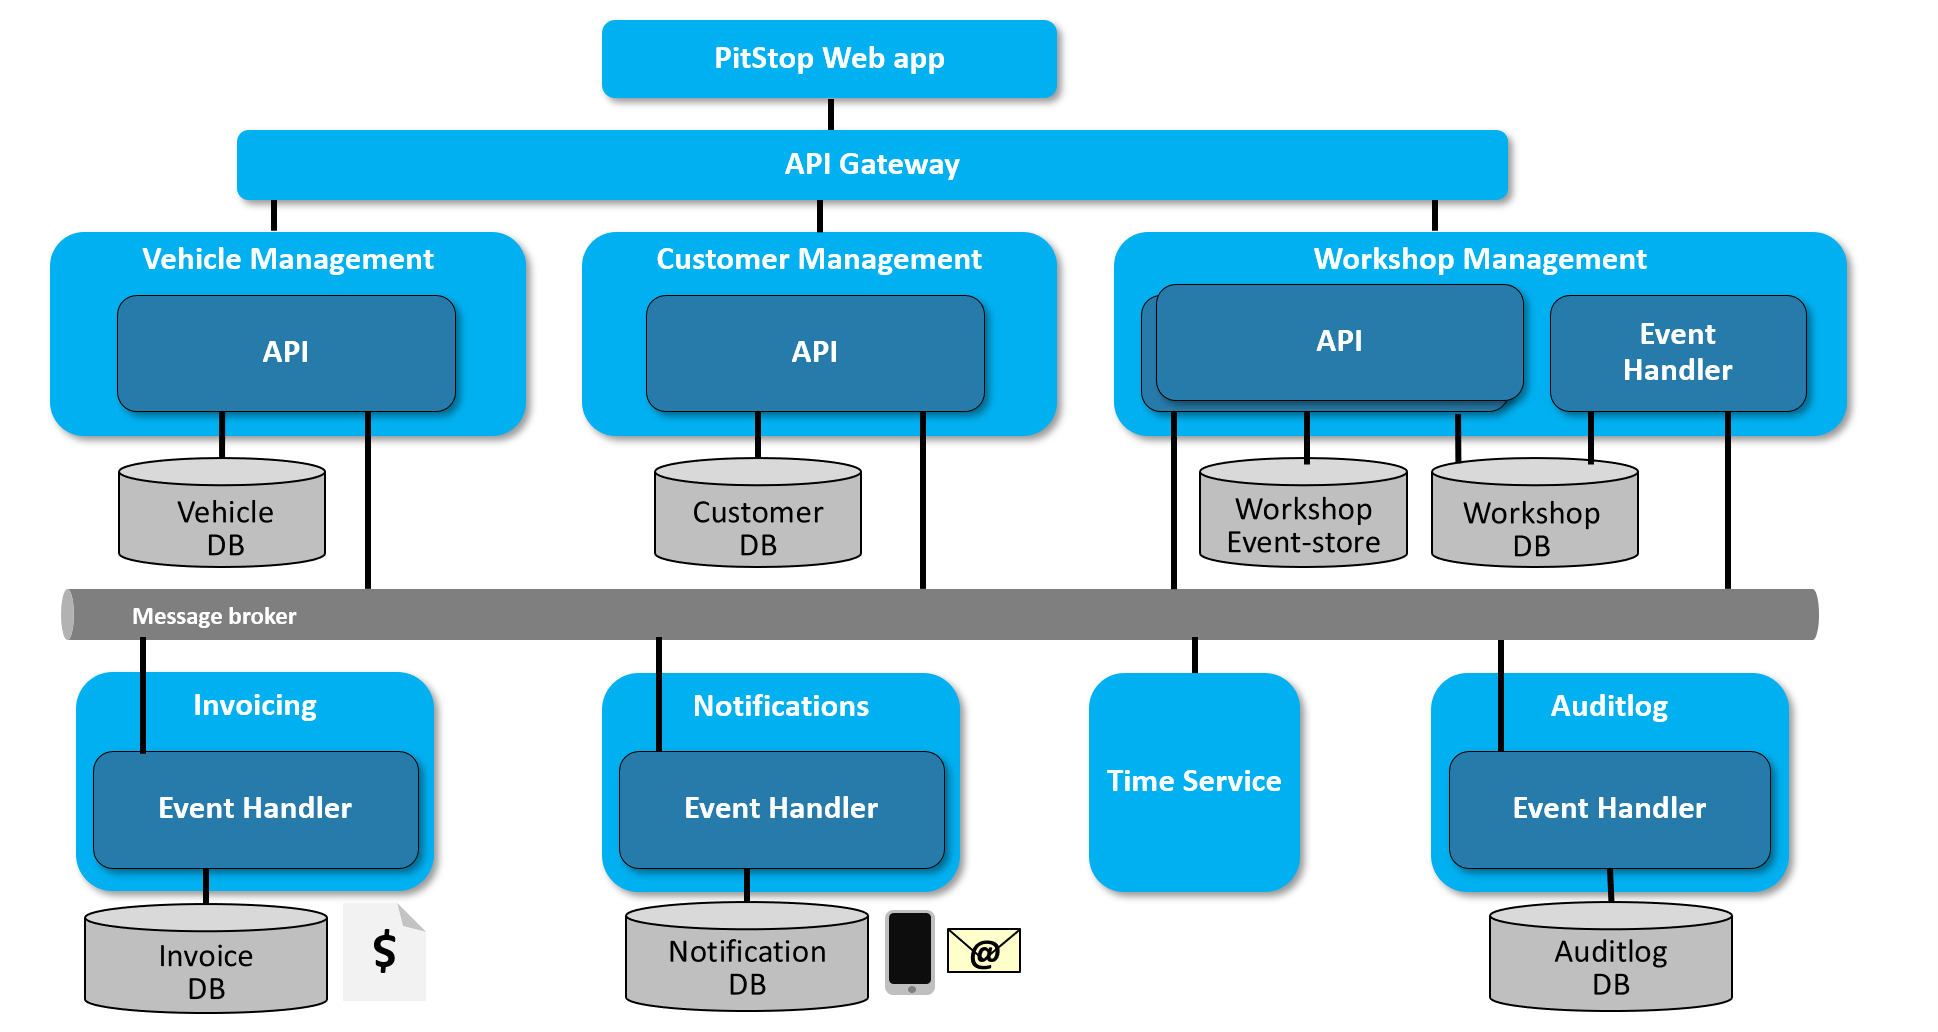
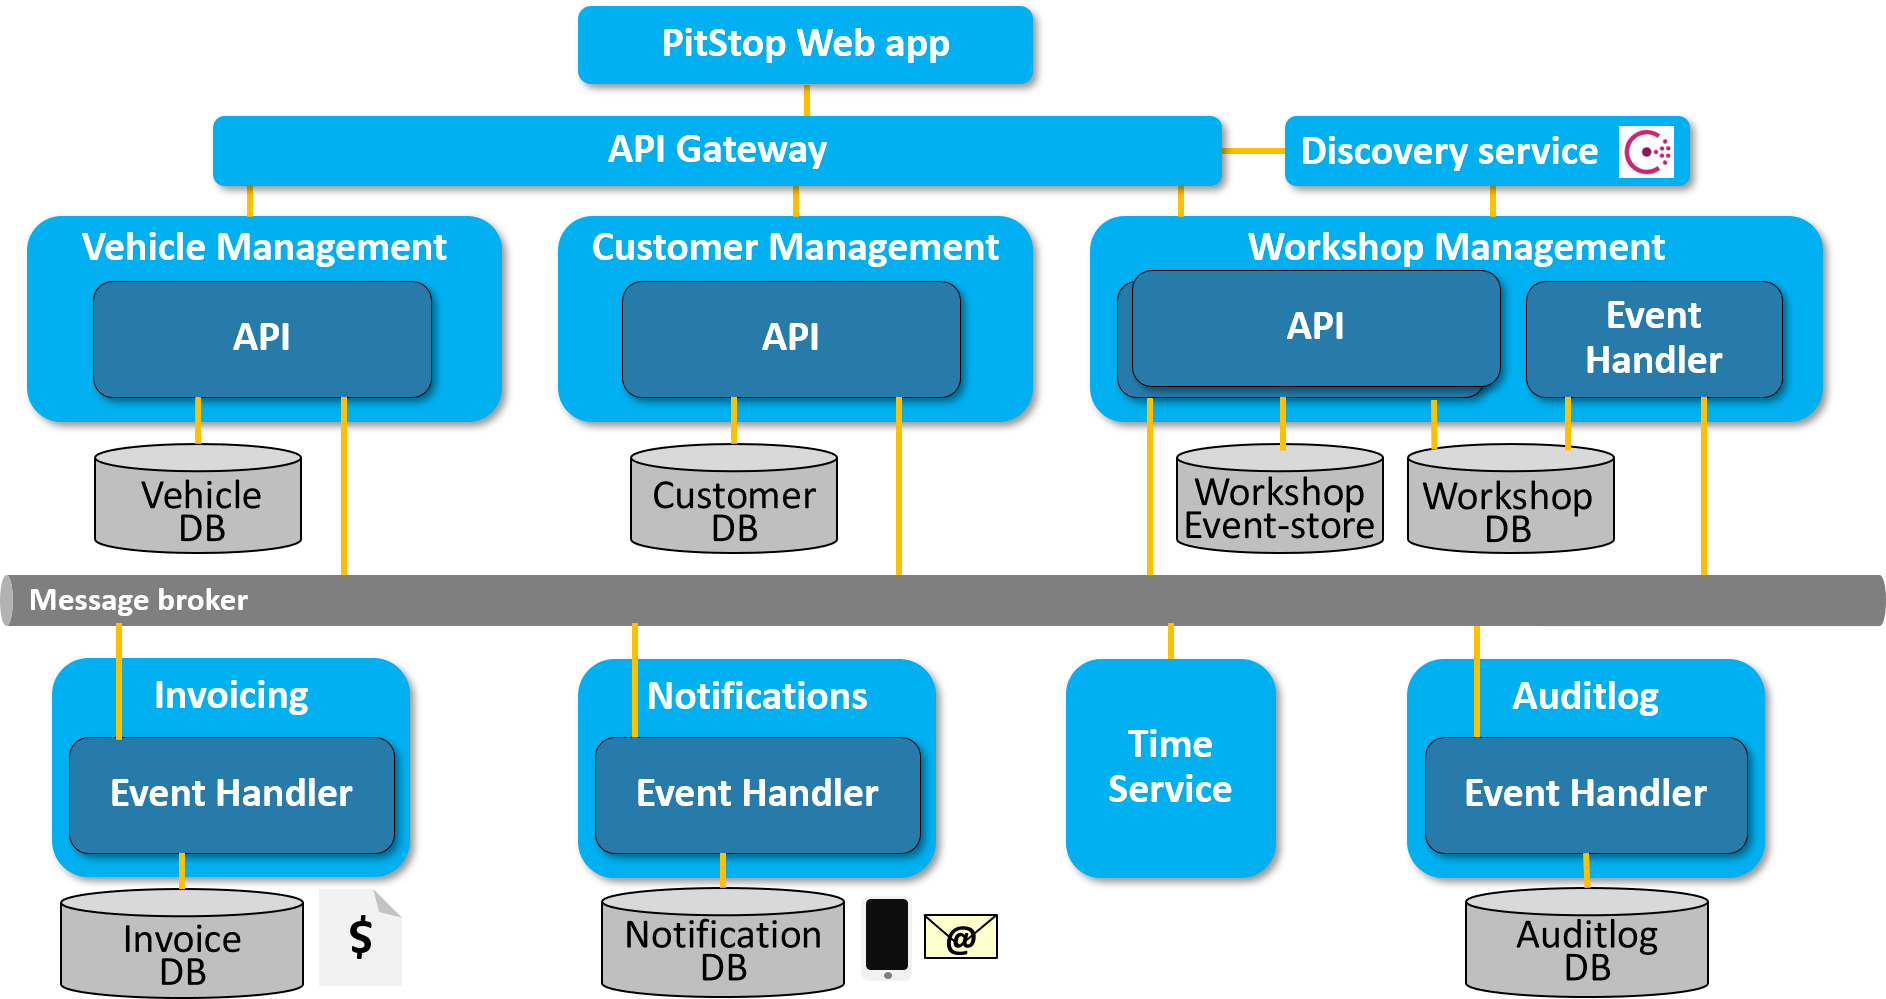
Added dynamic service-discovery using Consul

Changed region(s): [[0.0, 0.0, 1.0, 1.0], [0.6766, 0.3103, 0.7381, 0.3413], [0.0923, 0.1241, 0.123, 0.1862]]

diff --git a/src/WorkshopManagementAPI/ApplicationBuilderExtensions.cs b/src/WorkshopManagementAPI/ApplicationBuilderExtensions.cs
@@ -1,0 +1,62 @@
+using System;
+using System.Linq;
+using System.Net;
+using System.Net.Sockets;
+using Consul;
+using Microsoft.AspNetCore.Builder;
+using Microsoft.AspNetCore.Hosting;
+using Microsoft.AspNetCore.Hosting.Server.Features;
+using Microsoft.AspNetCore.Http.Features;
+using Microsoft.Extensions.DependencyInjection;
+using Microsoft.Extensions.Logging;
+using Microsoft.Extensions.Options;
+
+namespace Pitstop.WorkshopManagementAPI
+{
+    public static class ApplicationBuilderExtensions
+    {
+        public static IApplicationBuilder RegisterWithConsul(this IApplicationBuilder app, IApplicationLifetime lifetime)
+        {
+            // Retrieve Consul client from DI
+            var consulClient = app.ApplicationServices
+                                .GetRequiredService<IConsulClient>();
+            var consulConfig = app.ApplicationServices
+                                .GetRequiredService<IOptions<ConsulConfig>>();
+            // Setup logger
+            var loggingFactory = app.ApplicationServices
+                                .GetRequiredService<ILoggerFactory>();
+            var logger = loggingFactory.CreateLogger<IApplicationBuilder>();
+
+            // Get server IP address
+            var hostname = Dns.GetHostName(); // get container id
+            var ip = Dns.GetHostEntry(hostname).AddressList.First(x => x.AddressFamily == AddressFamily.InterNetwork).ToString();
+
+            var features = app.Properties["server.Features"] as FeatureCollection;
+            var addresses = features.Get<IServerAddressesFeature>();
+            var address = addresses.Addresses.First().Replace("*", ip);
+
+            System.Console.WriteLine($"Address used for Consul registration: {address}");
+            
+            // Register service with consul
+            var uri = new Uri(address);
+            var registration = new AgentServiceRegistration()
+            {
+                ID = $"{consulConfig.Value.ServiceID}-{hostname}-{uri.Port}",
+                Name = consulConfig.Value.ServiceName,
+                Address = $"{uri.Host}",
+                Port = uri.Port
+            };
+
+            logger.LogInformation("Registering with Consul");
+            consulClient.Agent.ServiceDeregister(registration.ID).Wait();
+            consulClient.Agent.ServiceRegister(registration).Wait();
+
+            lifetime.ApplicationStopping.Register(() => {
+                logger.LogInformation("Deregistering from Consul");
+                consulClient.Agent.ServiceDeregister(registration.ID).Wait(); 
+            });
+
+            return app;
+        }  
+    }
+}

diff --git a/src/WorkshopManagementAPI/Startup.cs b/src/WorkshopManagementAPI/Startup.cs
@@ -13,6 +13,11 @@ using Pitstop.WorkshopManagementAPI.Events;
 using Microsoft.AspNetCore.Mvc;
 using Serilog;
 using Microsoft.Extensions.HealthChecks;
+using Consul;
+using Microsoft.Extensions.Options;
+using Microsoft.AspNetCore.Http.Features;
+using Microsoft.AspNetCore.Hosting.Server.Features;
+using System.Linq;
 
 namespace Pitstop.WorkshopManagementAPI
 {
@@ -52,6 +57,14 @@ namespace Pitstop.WorkshopManagementAPI
             string password = configSection["Password"];
             services.AddTransient<IMessagePublisher>((sp) => new RabbitMQMessagePublisher(host, userName, password, "Pitstop"));
 
+            // add consul
+            services.Configure<ConsulConfig>(Configuration.GetSection("consulConfig"));
+                services.AddSingleton<IConsulClient, ConsulClient>(p => new ConsulClient(consulConfig =>
+                {
+                    var address = Configuration["consulConfig:address"];
+                    consulConfig.Address = new Uri(address);
+                }));          
+
             // Add framework services.
             services.AddMvc()
                 .SetCompatibilityVersion(CompatibilityVersion.Version_2_1);
@@ -71,7 +84,7 @@ namespace Pitstop.WorkshopManagementAPI
         }
 
         // This method gets called by the runtime. Use this method to configure the HTTP request pipeline.
-        public void Configure(IApplicationBuilder app, IHostingEnvironment env)
+        public void Configure(IApplicationBuilder app, IHostingEnvironment env, IApplicationLifetime lifetime)
         {
             Log.Logger = new LoggerConfiguration()
                 .ReadFrom.Configuration(Configuration)
@@ -91,6 +104,9 @@ namespace Pitstop.WorkshopManagementAPI
             {
                 c.SwaggerEndpoint("/swagger/v1/swagger.json", "WorkshopManagement API - v1");
             });
+
+            // register service in Consul
+            app.RegisterWithConsul(lifetime);
         }
 
         private void SetupAutoMapper()
@@ -103,6 +119,6 @@ namespace Pitstop.WorkshopManagementAPI
                 cfg.CreateMap<FinishMaintenanceJob, MaintenanceJobFinished>()
                     .ForCtorParam("messageId", opt => opt.ResolveUsing(c => Guid.NewGuid()));
             });
-        }
+        }      
     }
 }

diff --git a/src/APIGateway/Program.cs b/src/APIGateway/Program.cs
@@ -3,6 +3,7 @@ using Microsoft.AspNetCore;
 using Microsoft.AspNetCore.Hosting;
 using Microsoft.Extensions.Configuration;
 using Ocelot.Middleware;
+using Ocelot.Provider.Consul;
 using Ocelot.DependencyInjection;
 using Serilog;
 using Microsoft.Extensions.DependencyInjection;
@@ -41,7 +42,8 @@ namespace Pitstop.APIGateway
                 })
                 .ConfigureServices(s =>
                 {
-                    s.AddOcelot();
+                    s.AddOcelot()
+                     .AddConsul();
                     s.AddHealthChecks(checks =>
                     {
                         checks.WithDefaultCacheDuration(TimeSpan.FromSeconds(5));

diff --git a/src/WorkshopManagementAPI/ConsulConfig.cs b/src/WorkshopManagementAPI/ConsulConfig.cs
@@ -1,0 +1,9 @@
+namespace Pitstop.WorkshopManagementAPI
+{
+    public class ConsulConfig
+    {
+        public string Address { get; set; }
+        public string ServiceName { get; set; }
+        public string ServiceID { get; set; }
+    }
+}

diff --git a/src/WorkshopManagementAPI/Program.cs b/src/WorkshopManagementAPI/Program.cs
@@ -2,6 +2,7 @@
 using Microsoft.AspNetCore.Hosting;
 using Microsoft.AspNetCore;
 using Serilog;
+using Consul;
 
 namespace Pitstop.WorkshopManagementAPI
 {

diff --git a/README.md b/README.md
@@ -46,7 +46,10 @@ I've created a solution architecture diagram which shows all the moving parts in
 The web application is the front-end for the system. Users can manage customers, vehicles and the planning for the workshop from this front-end. The front-end will only communicate with the different APIs in the system (throug the API Gateway) hand has no knowledge of the message-broker or any other services.
 
 #### API Gateway
-The API Gateway abstracts all the APIs in the solution. The PitStop web application calls all APIs through the API Gateway. The API Gateway also offers load-balancing of APIs.
+The API Gateway abstracts all the APIs in the solution. The PitStop web application calls all APIs through the API Gateway. The API Gateway also offers location-transparency and load-balancing of APIs. It uses the *DiscoveryService* to determine the available instances of the services it load-balances.
+
+#### Discovery Service
+The Discovery service is a service that administers the available running instances of the WorkshopManagementAPI service. This is the only service in the solution that is load-balanced. When a WorkshopManagementAPI service is started, it registers itself with the Discovery Service. When the service stops, it de-registers itself. The API gateway load-balances the workload over the available instances of the WorkshopManagement API that are registered with the Discovery Service.
 
 #### Customer Management Service
 This service offers an API that is used to manage Customers in the system. For now, only CREATE and READ functionality (list and single by unique Id) is implemented. 
@@ -74,7 +77,7 @@ This service publishes the following events:
 This service contains 2 parts: an API for managing the workshop planning and an event-handler that handles events and builds a read-model that is used by the API. 
 
 ##### API
-This is an API that is used to manage Maintenance Jobs in the system. Because we want to be able to keep Workshop Management up and running even when other services are down, the API also offers functionality to retrieve vehicle and customer information from the read-model. This read-model is filled by the event-handler (described below). To ensure the availability of this API, 2 instances of this API are started and load-balanced by the API Gateway.
+This is an API that is used to manage Maintenance Jobs in the system. Because we want to be able to keep Workshop Management up and running even when other services are down, the API also offers functionality to retrieve vehicle and customer information from the read-model. This read-model is filled by the event-handler (described below). To ensure the availability of this API, multiple instances of this API can be started. These instances will be load-balanced by the API Gateway.
 
 This service handles the following commands:
 
@@ -152,7 +155,11 @@ The database server used to host all databases is MS SQL Server running on Linux
 To simulate sending emails, I use MailDev. This test-server acts as both an SMTP Server as a POP3 server and offers a website to see the mails that were sent. No emails are actually sent when using this test-server. I use the default MailDev Docker image from Docker Hub (`djfarrelly/maildev`). See [https://github.com/djfarrelly/MailDev](https://github.com/djfarrelly/MailDev "MailDev Github repo") for more info.
 
 **Ocelot**
-Ocelot is an open-source API Gateway built on .NET Core. It is used to implement the API Gateway in the PitStop solution. See [https://github.com/ThreeMammals/Ocelot](https://github.com/ThreeMammals/Ocelot) for more info.
+Ocelot is an open-source API Gateway built on .NET Core. It is used to implement the API Gateway in the PitStop solution. See [https://github.com/ThreeMammals/Ocelot](https://github.com/ThreeMammals/Ocelot) for more info. Ocelot uses Consul (described below) for dynamic service-discovery.
+
+**Consul**
+Consul is an open-source service-mesh tool that can be used for service-discovery. Services can register themselves with Consul when they start and de-register themselves when they stop. 
+See [https://www.consul.io/](https://www.consul.io/) for more info.
 
 **Serilog**
 Serilog an open-source logging framework for .NET (Core). It supports semantic/structured logging. All components within the solution use Serilog for logging information and errors. Log information is sent to the Console and to a Seq server (described below). See [https://serilog.net/](https://serilog.net/) for more info.
@@ -310,7 +317,7 @@ If you want to test the individual APIs in the system, you can use the test UIs 
 | WorkshopManagement | [http://localhost:5200/swagger](http://localhost:5200/swagger) |
 
 ### The API Gateway
-All APIs are aggregated by the API Gateway. Swagger is not served through the gateway. 
+All APIs are aggregated by the API Gateway. 
 
 The gateway runs on port 10000 and it serves the following end-points:
 
@@ -369,7 +376,61 @@ This approach saves me from having to write lots of configuration. Especially fo
 - /api/refdata/vehicles
 
 #### Load balancing
-When running in Docker containers (*Production* environment), 2 instances of the the *WorkshopManagementAPI* are started (see the docker-compose file). In the *Production* configuration of the API Gateway, you can see two *DownStream* hosts are specified. Also a *RoundRobin* load-balancer is configured. This ensures that the API Gateway will use both hosts in a round-robin fashion.
+When running in Docker containers (the *Production* environment), multiple instances of the the *WorkshopManagementAPI* can be started. Work will be load-balanced over these instances. To start multiple instances, specify this on the command-line when using docker-compose:
+
+```
+docker-compose up --scale workshopmanagementapi=<number of instances>`
+```
+
+This will start <number of instances> separate instances of this service. Each service will register itself with the *DiscoveryService* (the Consul service) upon start-up. 
+
+In the *Production* configuration of the API Gateway, you can see a *Round Robin* style load-balancer is configured in the `ocelot.WorkshopManagementAPI.json` config-file:
+
+```
+{
+  "ReRoutes": [
+    {
+      "Key": "WorkshopPlanningAPI",
+      "UpstreamPathTemplate": "/api/workshopplanning/{trailingSegments}",
+      "DownstreamPathTemplate": "/api/workshopplanning/{trailingSegments}",
+      "DownstreamScheme": "http",
+      "ServiceName": "workshopmanagementapi",
+      "LoadBalancerOptions": {
+        "Type": "RoundRobin"
+      }
+    },
+    {
+      "Key": "WorkshopRefDataAPI",
+      "UpstreamPathTemplate": "/api/refdata/{trailingSegments}",
+      "DownstreamPathTemplate": "/api/refdata/{trailingSegments}",
+      "DownstreamScheme": "http",
+      "ServiceName": "workshopmanagementapi",
+      "LoadBalancerOptions": {
+        "Type": "RoundRobin"
+      }
+    }
+  ]
+}
+```
+
+As you can see, no *DownStreamHostsAndPorts* section exists in this configuration. This is because the API Gateway is configured to use *Consul* for dynamic service-discovery. This is specified in the `ocelot.global.json` configuration file in the *Production* folder:
+
+```
+{
+  "GlobalConfiguration": {
+    "BaseUrl": "http://apigateway:10000",
+    "ServiceDiscoveryProvider": {
+      "Host": "discoveryservice",
+      "Port": 8500,
+      "Type": "Consul"
+    }  
+  }
+}
+```
+
+If you want to see whether or not multiple instances of the service is registered with the discovery service, point your browser to [http://localhost:8500](http://localhost:8500) where the Consul UI is running. You will see multiple instances of the workshopmanagementapi service (in the example below, I started 4 instances):
+
+![](img/consul-ui.png)
 
 ## Logging
 To make sure you can see what's going on with the application, a lot of informational, warning- and error-logging is emitted. This logging can be seen in on the console (output of docker-compose). But a better way to look at this logging is using the Seq server that is part of the solution. If you start the application and it for some time, point your browser to [http://localhost:5341](http://localhost:5341) and you will see the Seq console with all the logging information:
